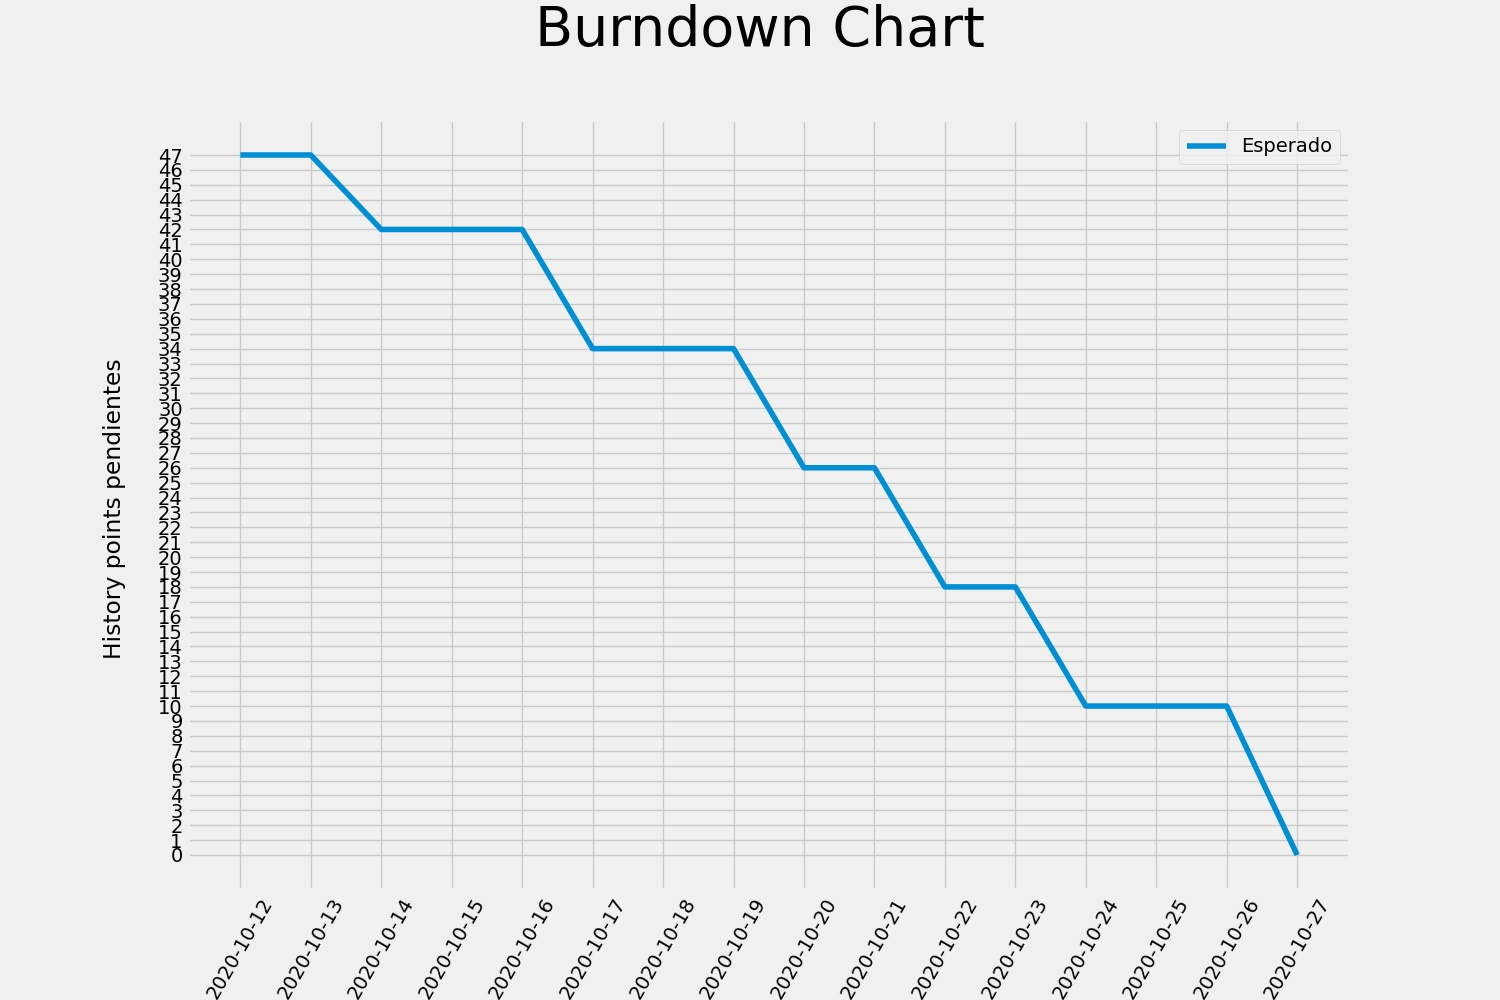
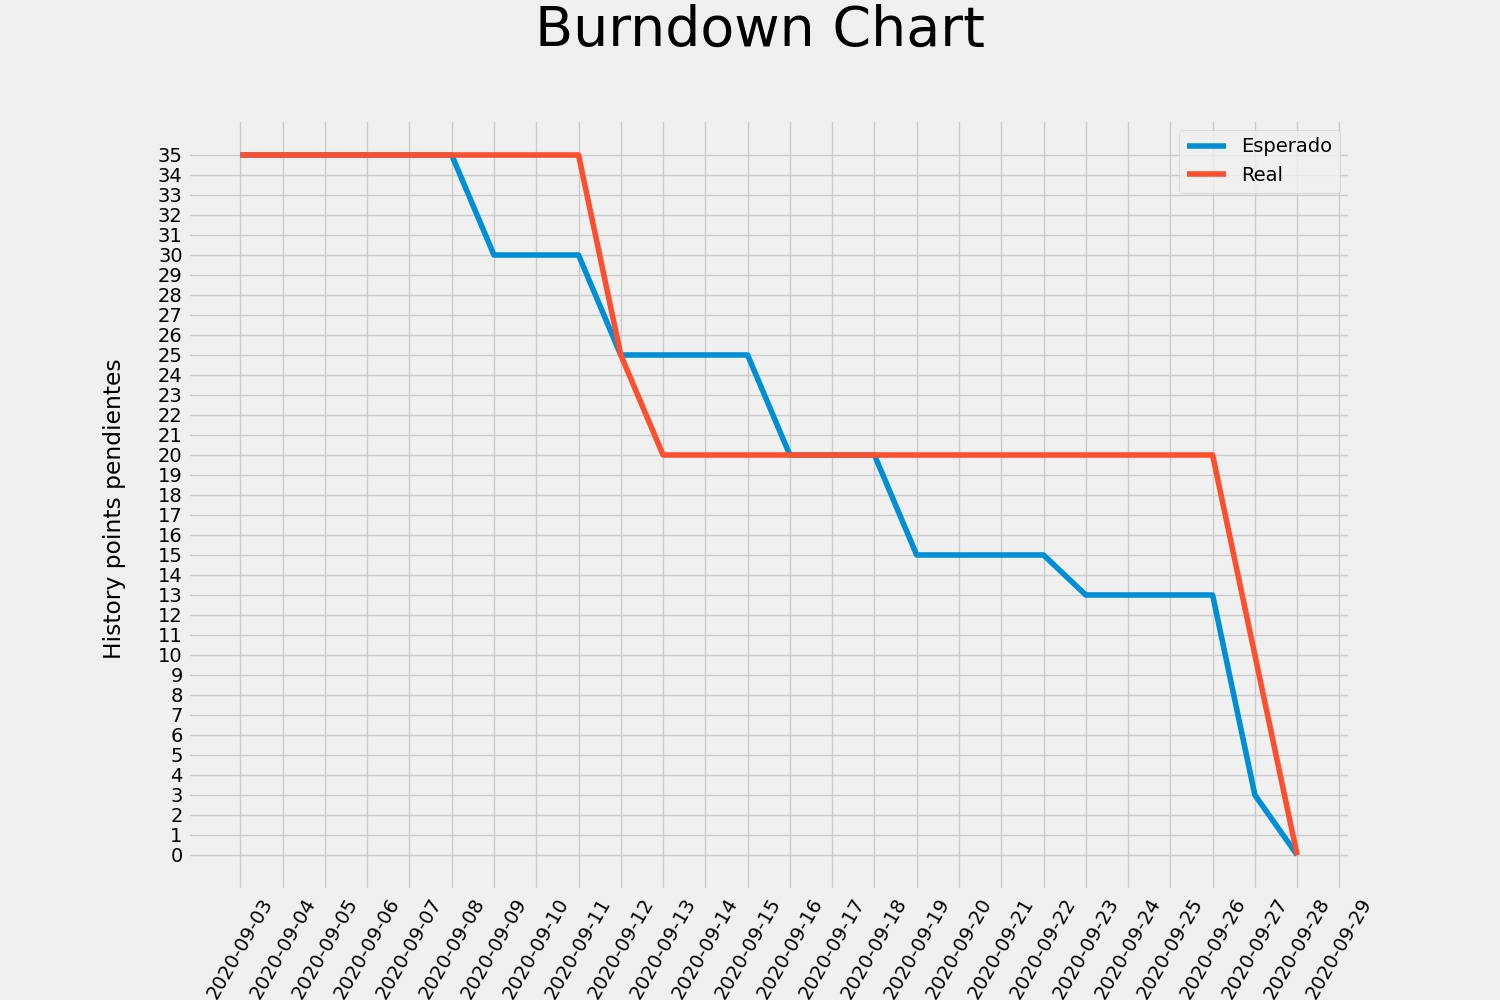
Add opcion real a BurndownChart

Changed region(s): [[0.092, 0.124, 0.8893, 0.868], [0.1533, 0.899, 0.92, 1.0]]

diff --git a/BurndownChart/app.py b/BurndownChart/app.py
@@ -10,13 +10,23 @@ def mkchrt():
         points = int(points_label.cget("text"))
         if points == 0:
             file = open("burndownchart.csv","w")
-            file.write('Fecha,Esperado\n')
+            file.write('Fecha,Esperado,Actual\n')
             for i in range(len(dias)):
-                if len(Hpoints) <= i:
-                   file.write(str(dias[i])+',NaN\n')
+                if len(DHpoints) > i:
+                    print(DHpoints[i])
+                    if len(Hpoints) <= i:
+                        file.write(str(dias[i])+',NaN,'+str(DHpoints[i])+'\n')
+                    else:
+                        if Hpoints[i] >= 0:
+                            file.write(str(dias[i])+','+str(Hpoints[i])+','+str(DHpoints[i])+'\n')
                 else:
-                    if Hpoints[i] >= 0:
-                         file.write(str(dias[i])+','+str(Hpoints[i])+'\n')
+                    if len(Hpoints) <= i:
+                        file.write(str(dias[i])+',NaN,NaN'+'\n')
+                    else:
+                        if Hpoints[i] >= 0:
+                            file.write(str(dias[i])+','+str(Hpoints[i])+',NaN'+'\n')
+                    
+                
         file.close()
         df = pd.read_csv("burndownchart.csv")
         print(Hpoints[0])
@@ -25,6 +35,7 @@ def mkchrt():
         with plt.style.context('fivethirtyeight'):
             print('si')
             plt.plot(df["Fecha"],df["Esperado"],label="Esperado")
+            plt.plot(df["Fecha"],df["Actual"],label="Real")
             plt.xticks(rotation=60)
             #plt.xticks(dias,rotation=60)
             plt.yticks(range(0,Hpoints[0]+1))
@@ -38,10 +49,11 @@ def mkchrt():
         messagebox.showinfo("Error","Aun quedan puntos de historias no asignados.\nPor favor, asigne esos puntos a un dia.")
 
 def mkpoints():
-    def save_data(total_points,esperado,dias):
+    def save_data(total_points,esperado,team_work,dias):
         total_points = int(entry_points.get())
         if total_points > 0:
             Hpoints.append(total_points)
+            DHpoints.append(total_points)
 
             start=star_cal.get_date()
             end=finish_cal.get_date()
@@ -54,6 +66,7 @@ def mkpoints():
             print(dias)
 
             esperado.append(start)
+            team_work.append(start)
             startdate_label.configure(text=start)
             finishdate_label.configure(text=end)
             points_label.configure(text=total_points)
@@ -82,7 +95,7 @@ def mkpoints():
     entry_points.pack(pady=5)
     
     ##### save button #####
-    save_button = Button(top,text="Guardar", command=lambda:save_data(Hpoints,esperado,dias))
+    save_button = Button(top,text="Guardar", command=lambda:save_data(Hpoints,esperado,team_work,dias))
     save_button.pack(pady=20)
     
 def mkidealwk():
@@ -125,6 +138,43 @@ def mkidealwk():
     save_button = Button(top,text="Guardar", command=lambda:prosesado(points,esperado))
     save_button.pack(pady=20)
 
+def adownwk():
+    def prosesado(maxpts,team_work):
+        DoneHpoint = Historia_terminadas_box.get()
+        dhdate = h_terminada_date_cal.get_date()
+        if maxpts > 0:
+            maxpts = int(maxpts)-int(DoneHpoint)
+            diferencia = dhdate - team_work[len(team_work)-1]
+            print(diferencia)
+            for trabajo_terminado in range(diferencia.days-1):
+                DHpoints.append(DHpoints[len(DHpoints)-1])
+            DHpoints.append(maxpts)
+            team_work.append(dhdate)
+
+            print(DHpoints)
+            top.destroy()
+        else:
+            messagebox.showinfo("Error","Error.\nVerifica si los puntos fueron ingresados o si los puntos ingresados son los correctos.")
+            top.destroy()
+    ##### add done points #####
+    top = Toplevel(root)
+    Historia_terminadas_label = Label(top,text="Ingresar el numero de puntos que tenia la historia")
+    Historia_terminadas_label.pack()
+    Historia_terminadas_box = Entry(top)
+    Historia_terminadas_box.pack(pady=5)
+
+    ##### Fecha de la Hitoria #####
+    h_terminada_date_label = Label(top,text="Fecha")
+    h_terminada_date_label.pack()
+    h_terminada_date_cal = DateEntry(top)
+    h_terminada_date_cal.pack(pady=20)
+
+    maxpts = DHpoints[len(DHpoints)-1]
+    print(maxpts)
+    ##### save button #####
+    save_button = Button(top,text="Guardar", command=lambda:prosesado(maxpts,team_work))
+    save_button.pack(pady=20)
+
 def quit():
     root.destroy()
 
@@ -135,7 +185,9 @@ root.geometry("400x400")
 now = datetime.datetime.now()
 dias = []
 esperado = []
+team_work = []
 Hpoints = []
+DHpoints = []
 
 ##### start the proyect #####
 starttitulo_label = Label(root,text="Fecha de inicio")
@@ -162,6 +214,10 @@ mkchrt_button.pack(pady=20)
 ##### make perfect work button #####
 ideal_work_button = Button(root,text="Seleccionar dia de trabajo", command=mkidealwk)
 ideal_work_button.pack(pady=10)
+
+##### add team points button #####
+team_work_button = Button(root,text="Agregar agregar reporte semanal", command=adownwk)
+team_work_button.pack(pady=10)
 
 ##### make chart button #####
 mkchrt_button = Button(root,text="Crear el grafico", command=mkchrt)
